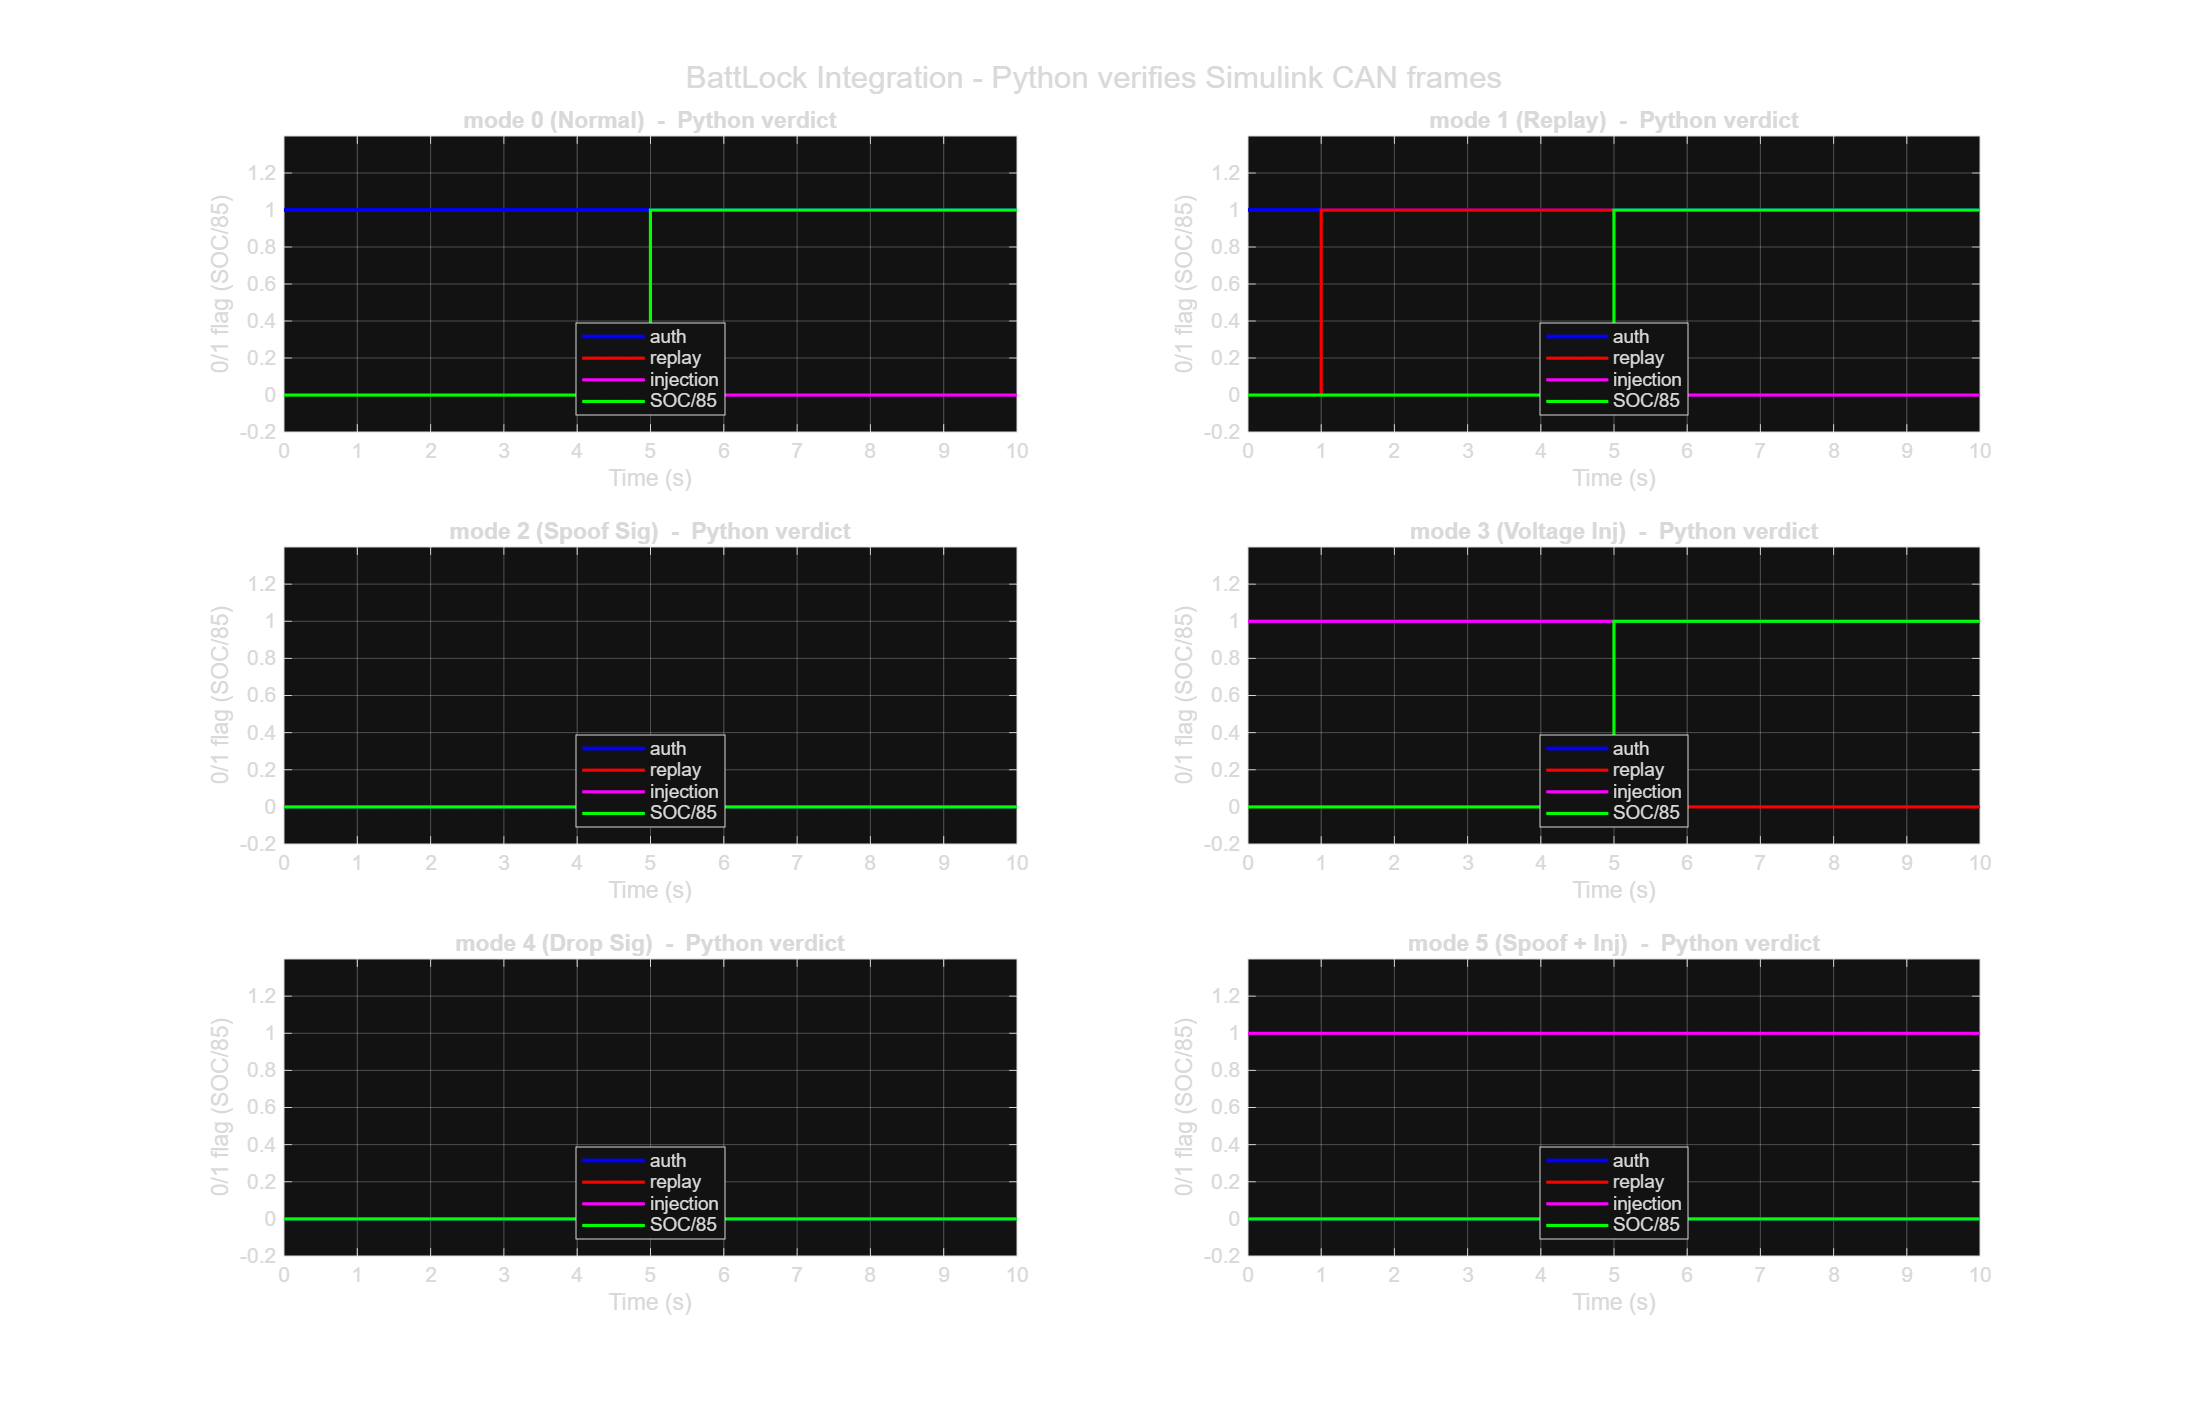
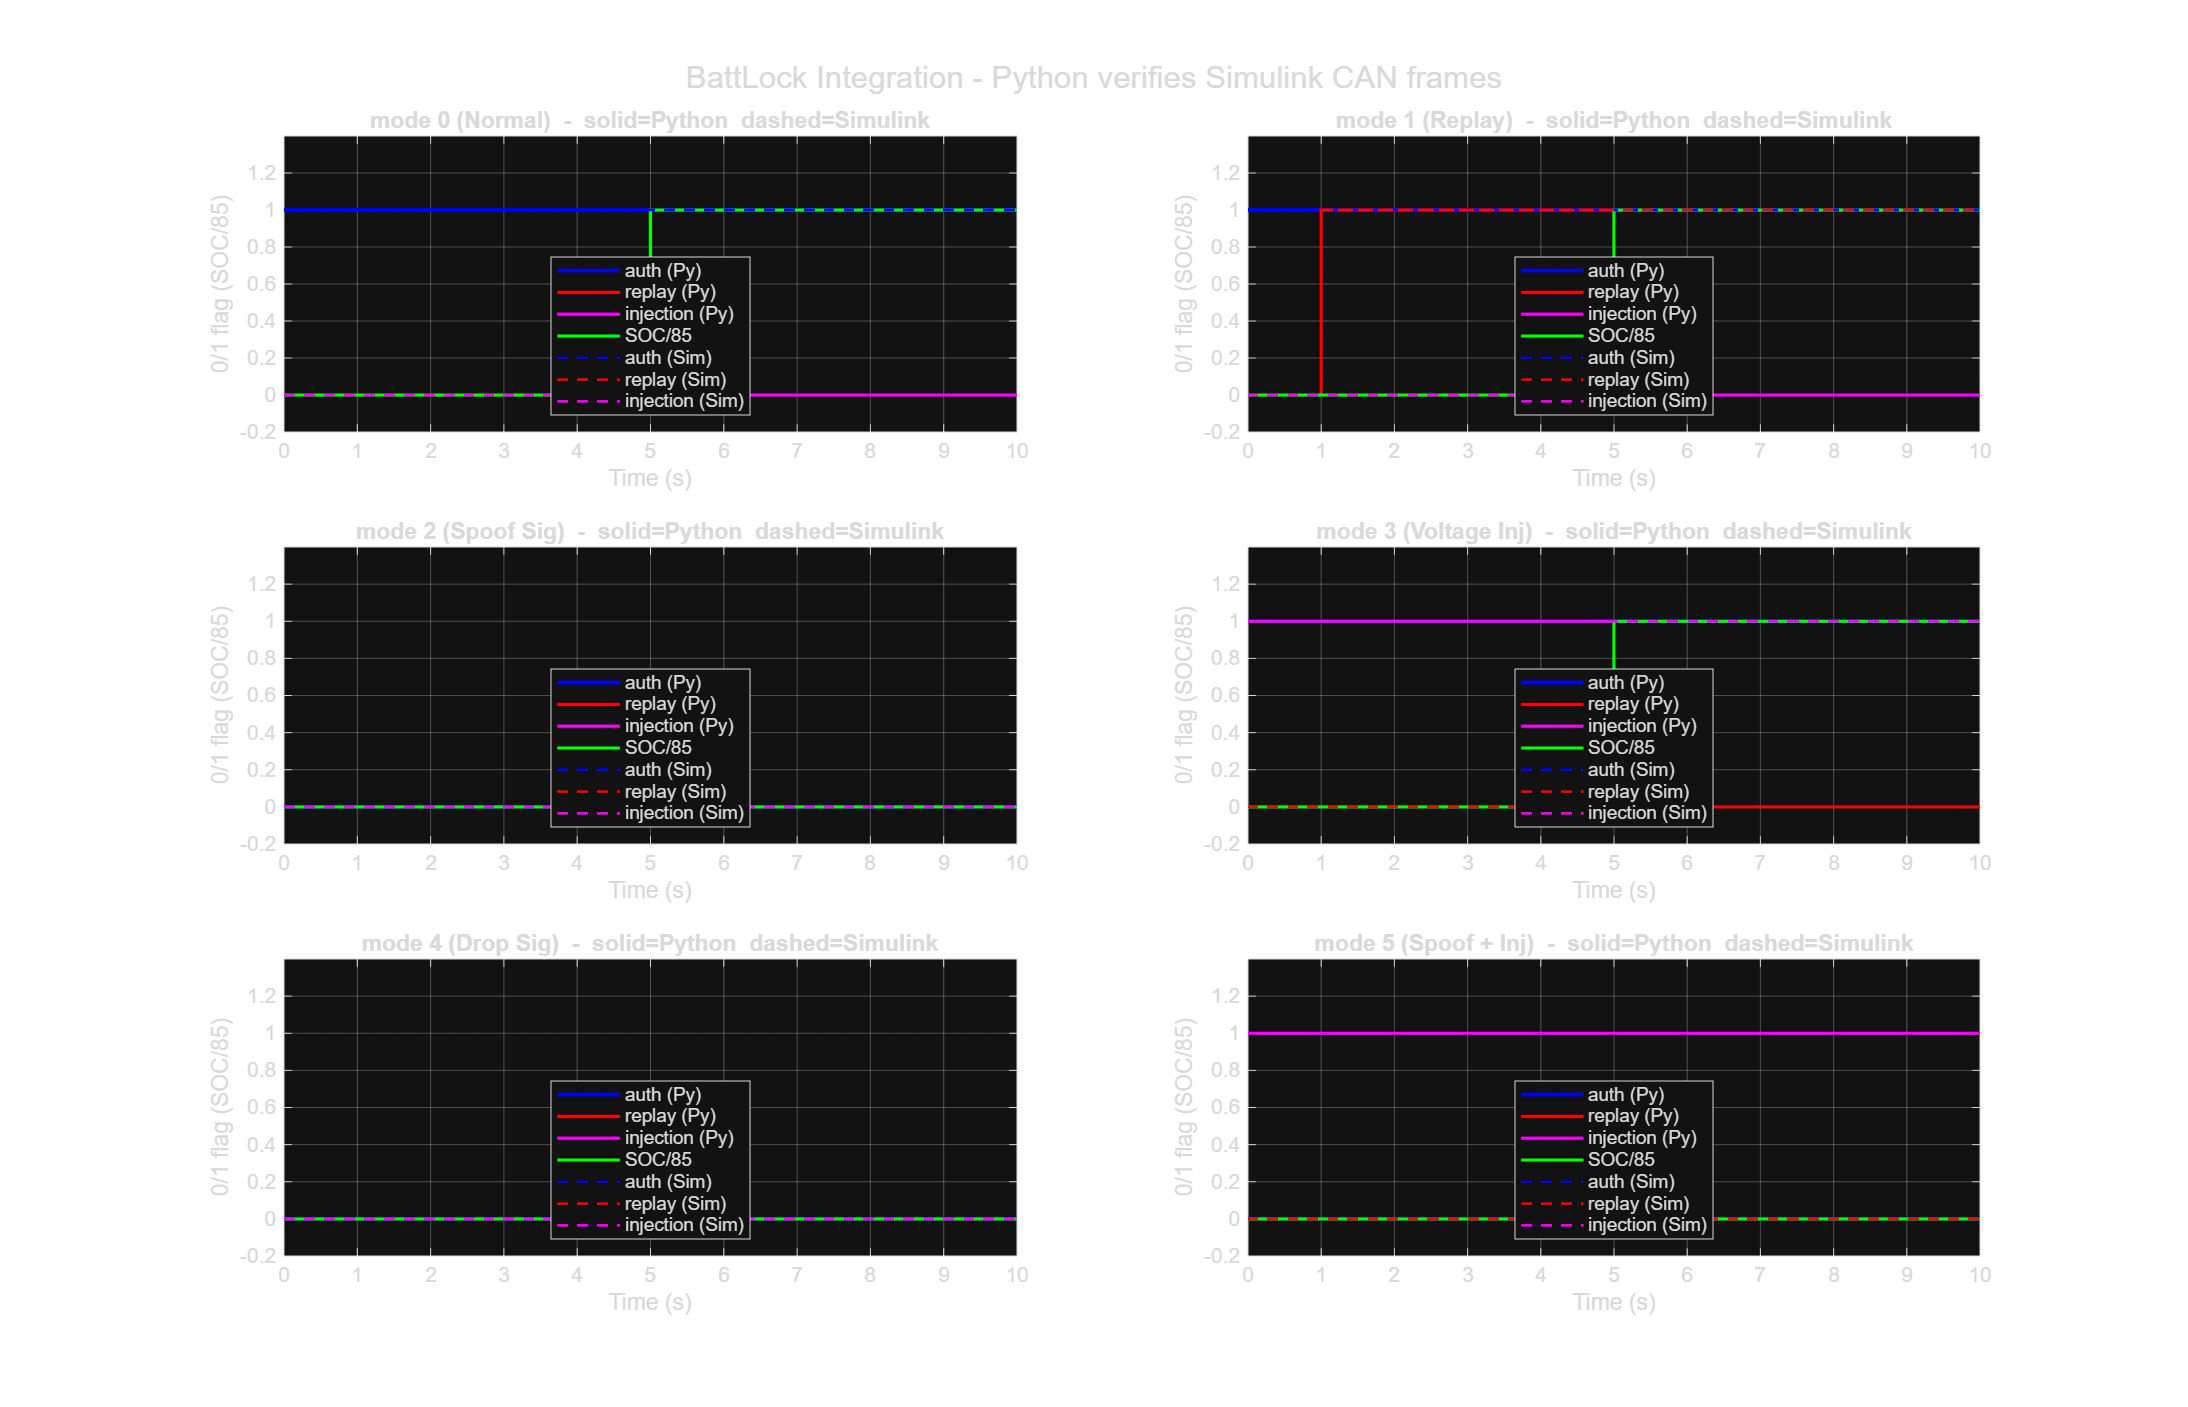
overlay simulink verdicts on integration plot
- dashed lines = Simulink model flags, solid = Python verifier flags

- overlapping dashed/solid lines make the agreement visible

diff --git a/simulink/make_integration_plots.m b/simulink/make_integration_plots.m
@@ -16,11 +16,15 @@ function make_integration_plots(verified_csv, plot_path, report_path)
         stairs(g.time, g.py_replay, 'r-', 'LineWidth', 1.5);
         stairs(g.time, g.py_injection, 'm-', 'LineWidth', 1.5);
         stairs(g.time, g.model_soc/85, 'g-', 'LineWidth', 1.5);
+        stairs(g.time, g.model_auth, 'b--', 'LineWidth', 1.2);
+        stairs(g.time, g.model_replay, 'r--', 'LineWidth', 1.2);
+        stairs(g.time, g.model_injection, 'm--', 'LineWidth', 1.2);
         ylim([-0.2 1.4]);
         grid on;
-        title(sprintf('mode %d (%s)  -  Python verdict', m, descriptions(m)));
+        title(sprintf('mode %d (%s)  -  solid=Python  dashed=Simulink', m, descriptions(m)));
         xlabel('Time (s)'); ylabel('0/1 flag (SOC/85)');
-        legend({'auth','replay','injection','SOC/85'}, 'Location','south');
+        legend({'auth (Py)','replay (Py)','injection (Py)','SOC/85', ...
+                'auth (Sim)','replay (Sim)','injection (Sim)'}, 'Location','south');
     end
     sgtitle('BattLock Integration - Python verifies Simulink CAN frames');
     saveas(f, plot_path);
